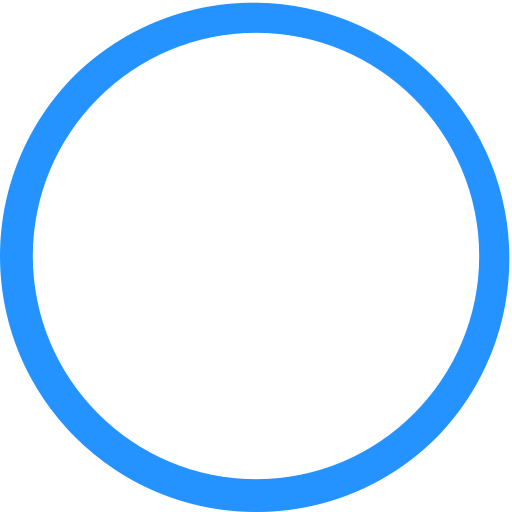
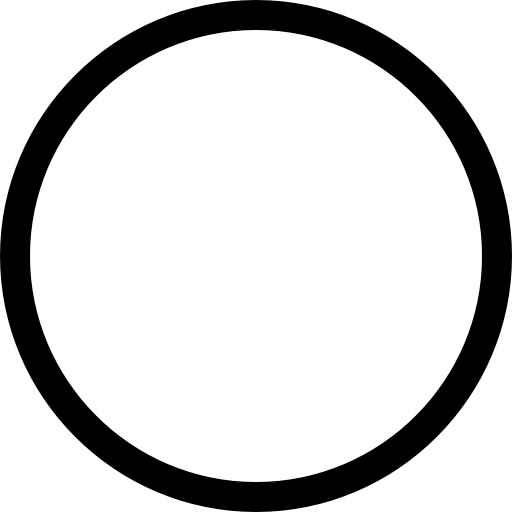
v2

Changed region(s): [[0.0, 0.0, 1.0, 1.0]]

diff --git a/src/App.jsx b/src/App.jsx
@@ -1,145 +1,42 @@
-
-import notification from './assets/images/notification.png';
-import today from './assets/images/today.png';
-// import schedule from './assets/images/schedule.png';
-// import all_task from './assets/images/all_task.png';
-// import overtime from './assets/images/overtime.png';
-import circle from './assets/images/circle.png';
-import dot from './assets/images/dot.png';
-// import dots from './assets/images/dots.png';
-
-
+import menu from '../src/assets/images/menu.png';
+import profile from '../src/assets/images/profile.png';
+// import checked from '../src/assets/images/checked.png';
+import checklist from '../src/assets/images/checklist.png';
+// import circle from '../src/assets/images/circle';
+// import edit from '../src/assets/images/edit.png';
+// import square from '../src/assets/images/square.png';
+// import trash from '../src/assets/images/trash.png';
 
 function App() {
   
   return (
-    <div className="w-full h-auto bg-gray-400 justify-center">
+    <div className="w-full h-auto flex">
+        {/* Sidebar */}
 
-        {/* Navbar */}
-        <div className="w-full bg-pink-200 h-16 px-6 flex items-center justify-between">         
-          <div className="flex flex-col">
-            <p className="text-xl font-semibold text-gray-800">
-              Hello Jack,
-            </p>
-            <p className="text-sm text-gray-500">
-              You have work today
-            </p>
-          </div>
-          <div className="relative flex items-center justify-center">
-            <img className="w-8 h-8 cursor-pointer"src={notification} alt="notification"/>
-
-            {/* Notification badge */}
-            <span className="absolute -top-1 -right-1 w-4 h-4 bg-red-400 rounded-full text-white text-[10px] flex items-center justify-center">
-              3
-            </span>
-          </div>
+        <div className='bg-pink-300 h-full w-[25%]'>
+            <div className='bg-gray-400 w-full h-8 '>
+              <img className='w-8 h-8 ml-4' src={menu} alt="menu" />
+            </div>
+            <div className='bg-blue-300 w-full h-30 place-items-center '>
+              <img className='w-12 h-12 mt-4' src={profile} alt="profile" />
+              <p className='text-bold mt-2'>M Kunthea</p>
+              <p className='text-sm'>abc@gmail.com</p>
+            </div>
+            <div className='border-b border-gray-800 '></div>
+            <div className='bg-gray-400 w-full h-12 flex items-center justify-center gap-6 pl-4'>
+              <img className='w-8 h-8 ' src={checklist} alt="checklist" />
+              <p>To-do list</p>
+            </div>
         </div>
 
-      {/* Content card */}
-      <div className="bg-green-200 w-full h-[500px] grid grid-cols-2 grid-rows-2 gap-4 p-4">
-
-        <div className="bg-purple-200 rounded-xl flex items-center justify-center overflow-hidden">
-          <img className="w-80 h-80" src={today} />
-        </div>
-
-        <div className="bg-yellow-200 rounded-xl flex items-center justify-center overflow-hidden">
-          <img className="w-20 h-20" src={today} />
-        </div>
-
-        <div className="bg-blue-200 rounded-xl flex items-center justify-center overflow-hidden">
-          <img className="w-12 h-12" src={today} />
-        </div>
-
-        <div className="bg-pink-200 rounded-xl flex items-center justify-center overflow-hidden">
-          <img className="w-10 h-10" src={today} />
-        </div>
-
-      </div>
-
-      {/* Today's task */}
-      <div className="bg-white rounded-2xl shadow-sm p-6">
-      <h2 className="text-xl font-semibold mb-6">Today's Task</h2>
-      
-        <div className="space-y-4">
-          <div className="flex items-center justify-between bg-gray-50 p-4 rounded-xl">
-            <div className=''>
-              <img className='w-2 h-2' src={circle} alt="circle" />
-              <p className="font-medium">Project retrospective</p>
-              <p className="text-sm text-gray-500">
-                Today 
-                <img className='w-8 h-8' src={dot} alt="dot" />
-                4:50 PM
-              </p>
-            </div>
-            <button>•••</button>
+        {/* Content page */}
+        {/* <div className='bg-gray-600 '>
+          <div className='bg-pink-400 w-full h-20'>To Do List</div>
+          <div className=''>
+            <button><input type="text" />Type your task here...</button>
           </div>
-
-          <div className="flex items-center justify-between bg-gray-50 p-4 rounded-xl">
-            <div>
-              <p className="font-medium">Evening team meeting</p>
-              <p className="text-sm text-gray-500">
-                Today • 4:50 PM
-              </p>
-            </div>
-            <button>•••</button>
-          </div>
-
-          <div className="flex items-center justify-between bg-gray-50 p-4 rounded-xl">
-            <div>
-              <p className="font-medium">Create monthly deck</p>
-              <p className="text-sm text-gray-500">
-                Today
-              </p>
-            </div>
-            <button>•••</button>
-          </div>
-          <div className="flex items-center justify-between bg-gray-50 p-4 rounded-xl">
-            <div>
-              <p className="font-medium">Create monthly deck</p>
-              <p className="text-sm text-gray-500">
-                Today
-              </p>
-            </div>
-            <button>•••</button>
-          </div>
-          <div className="flex items-center justify-between bg-gray-50 p-4 rounded-xl">
-            <div>
-              <p className="font-medium">Create monthly deck</p>
-              <p className="text-sm text-gray-500">
-                Today
-              </p>
-            </div>
-            <button>•••</button>
-          </div>
-          <div className="flex items-center justify-between bg-gray-50 p-4 rounded-xl">
-            <div>
-              <p className="font-medium">Create monthly deck</p>
-              <p className="text-sm text-gray-500">
-                Today
-              </p>
-            </div>
-            <button>•••</button>
-          </div>
-          <div className="flex items-center justify-between bg-gray-50 p-4 rounded-xl">
-            <div>
-              <p className="font-medium">Create monthly deck</p>
-              <p className="text-sm text-gray-500">
-                Today
-              </p>
-            </div>
-            <button>•••</button>
-          </div>
-          <div className="flex items-center justify-between bg-gray-50 p-4 rounded-xl">
-            <div>
-              <p className="font-medium">Create monthly deck</p>
-              <p className="text-sm text-gray-500">
-                Today
-              </p>
-            </div>
-            <button>•••</button>
-          </div>
-        </div>
-    </div>
+          <div></div>
+        </div> */}
     </div>
   )
 }
